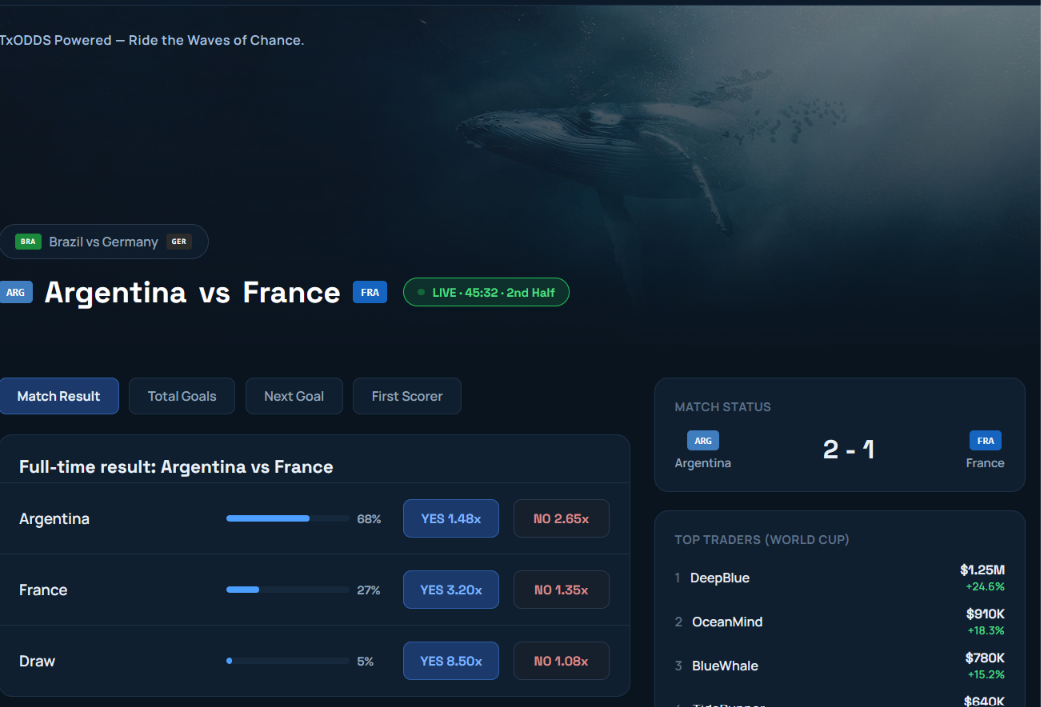
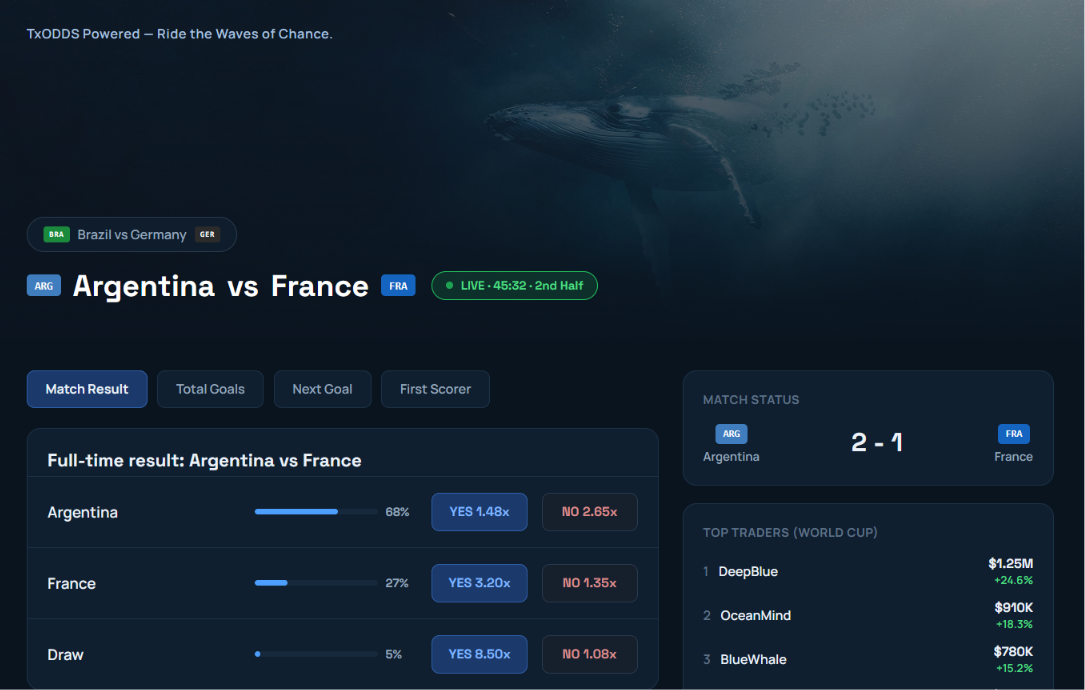
feat(web): refresh branding copy and trade preview

diff --git a/apps/web/components/auth-modal.tsx b/apps/web/components/auth-modal.tsx
@@ -41,12 +41,11 @@ export default function AuthModal() {
           ×
         </button>
         <div className="flex justify-between items-center mb-[22px]">
-          <span className="font-body font-bold text-[11px] tracking-[1.5px] text-dim">AUTH / 01</span>
           <span className="font-heading font-bold text-[11px] tracking-[1.5px] text-dim">BLUEFIN</span>
         </div>
         <div className="font-heading font-bold text-[22px] text-fg mb-2">Connect</div>
         <div className="font-bold text-[11px] tracking-[1px] text-dim mb-[22px]">
-          SIGN IN WITH GMAIL OR A WALLET
+          WITH GMAIL OR A WALLET
         </div>
         <button
           onClick={confirmAuth}
@@ -59,6 +58,12 @@ export default function AuthModal() {
           <span className="font-bold text-[11px] text-dim">OR</span>
           <div className="flex-1 h-px bg-[#1c2937]" />
         </div>
+
+        <div className="font-bold text-[11px] tracking-[1px] text-dim mb-[22px]">
+          CONNECT WITH WALLET
+        </div>
+
+
         <div className="flex flex-col gap-2.5 mb-[22px]">
           {WALLET_OPTIONS.map((w) => (
             <button
@@ -72,8 +77,7 @@ export default function AuthModal() {
           ))}
         </div>
         <div className="flex justify-between font-semibold text-[11px] text-faint">
-          <span>SECURED · OTP</span>
-          <span>V1.0</span>
+          <span>POWERED BY TXLINE</span> 
         </div>
       </div>
     </div>

diff --git a/apps/web/app/layout.tsx b/apps/web/app/layout.tsx
@@ -19,7 +19,7 @@ const manrope = Manrope({
 });
 
 export const metadata: Metadata = {
-  title: "Bluefin — Predict the Future. Trade with Confidence.",
+  title: "Bluefin.",
   description:
     "Bluefin is a decentralized football prediction exchange powered by real-time TxLINE data and trustless Solana settlement.",
 };

diff --git a/apps/web/components/footer.tsx b/apps/web/components/footer.tsx
@@ -16,6 +16,7 @@ export default function Footer() {
               <span className="font-heading font-bold text-[15px] tracking-[3px] text-fg">BLUEFIN</span>
             </div>
             <div className="font-semibold text-[13px] text-accent-soft mb-2.5">Ride the Waves of Chance.</div>
+            <div className="font-semibold text-[13px] text-accent-soft mb-2.5">Trade the Game. Trust the Outcome.</div>
             <div className="font-medium text-[13px] leading-relaxed text-dim">
               Bluefin is a decentralized prediction market protocol for sports and real-world events. Trade with
               confidence. Settled on-chain.